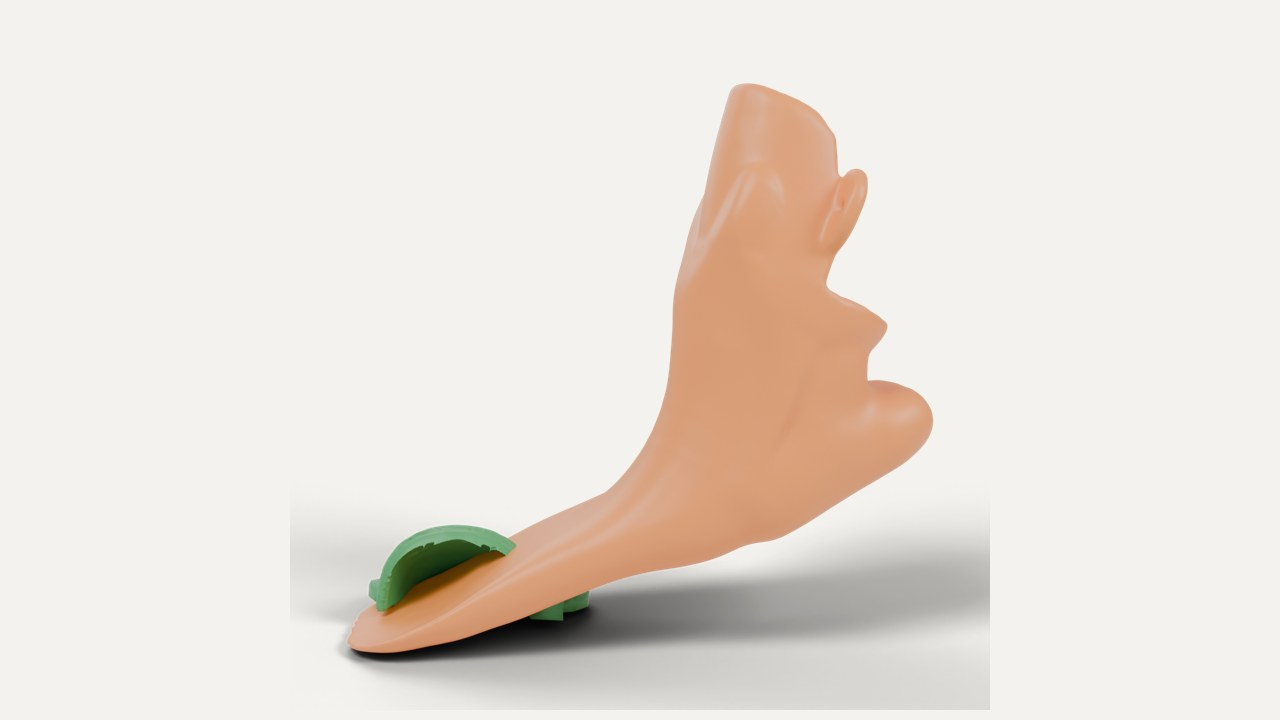
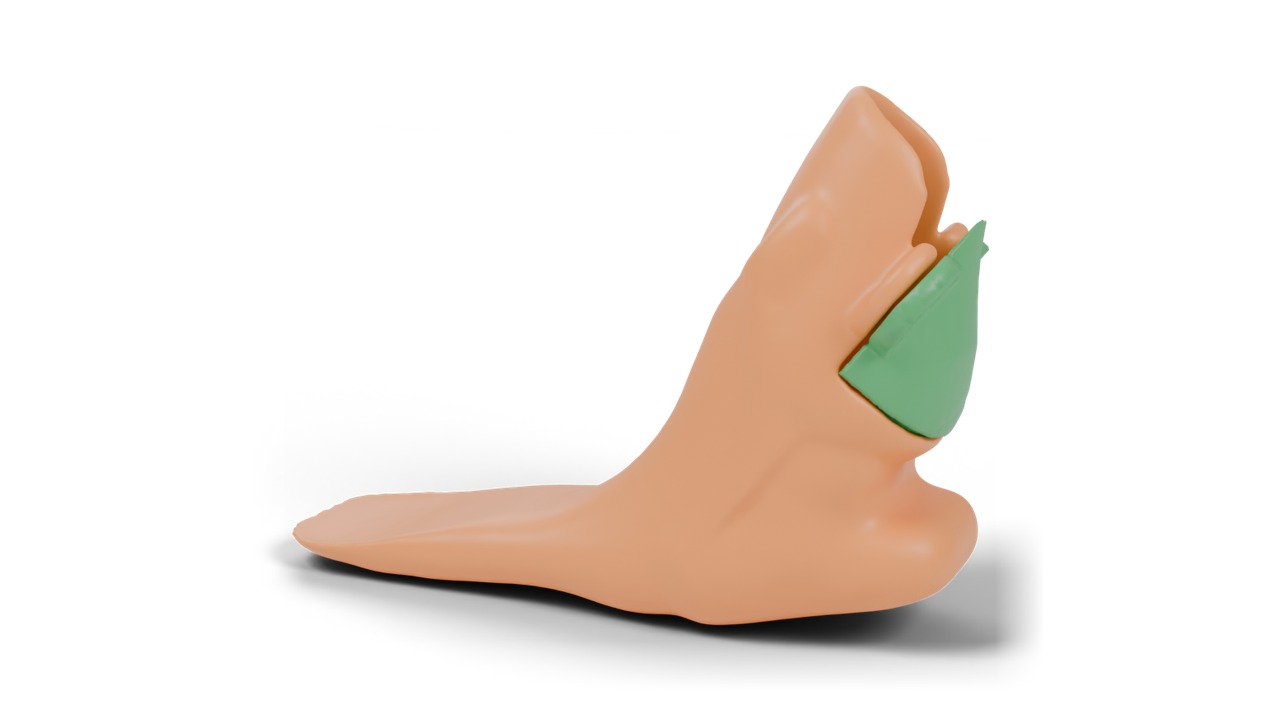
Real World: paper Blender renders for boot and scoop; minimal card text

Changed region(s): [[0.2188, 0.0917, 0.8125, 1.0]]

diff --git a/index.html b/index.html
@@ -167,7 +167,7 @@
         .rw-pipe .demo-card .pipe-prompt { aspect-ratio: 16 / 9; display: flex; align-items: center; justify-content: center; padding: 20px 28px;
             background: #141216; font-family: 'Noto Serif', Georgia, serif; font-style: italic; font-size: 1.15rem; line-height: 1.5; color: var(--heading); text-align: center; }
         .rw-pipe .demo-card .pipe-prompt .q { color: var(--design-2); font-size: 1.6em; line-height: 0; vertical-align: -0.3em; }
-        .rw-pipe .demo-card img { width: 100%; aspect-ratio: 16 / 9; object-fit: cover; display: block; }
+        .rw-pipe .demo-card img { width: 100%; aspect-ratio: 16 / 9; object-fit: cover; background: #fff; display: block; }
         .rw-pipe .demo-card .step { font-family: 'Inter', 'Noto Sans', sans-serif; font-size: 0.7rem; font-weight: 600; color: var(--design-2); letter-spacing: 0.08em; text-transform: uppercase; margin-bottom: 4px; }
         .rw-grid .trial { font-family: 'Inter', 'Noto Sans', sans-serif; font-size: 0.7rem; font-weight: 600; color: var(--secondary); letter-spacing: 0.08em; text-transform: uppercase; margin-left: 8px; vertical-align: 2px; }
         .tip {
@@ -377,33 +377,26 @@
 <section id="real-world">
     <div class="page-wide">
         <h2>Real World Results</h2>
-        <p class="method-text" style="max-width:900px">Two L2D designs printed and run on hardware. Prompt, DIAL-MPC controllers in simulation, printed part, then three hardware trials. <strong>Stock left, L2D design right.</strong></p>
+        <p class="method-text" style="max-width:900px"><strong>Stock left, L2D design right.</strong></p>
 
         <h3 class="sub">Soccer: Stock Go2 Vs. Printed Kicking Boot</h3>
-        <p class="sub-note">Standing kick. Real time, cut before the robot drops into damping mode.</p>
         <div class="demo-grid rw-grid rw-pipe">
             <div class="demo-card design">
                 <div class="pipe-prompt"><span><span class="q">&ldquo;</span>Kick the ball as far as possible from a standing kick.<span class="q">&rdquo;</span></span></div>
                 <div class="card-body">
                     <div class="step">1 &middot; Prompt</div>
-                    <div class="card-head"><h3>Prompt</h3><div class="robot">UNITREE GO2 &middot; LONG KICK</div></div>
-                    <p>Given to L2D with the stock robot.</p>
                 </div>
             </div>
             <div class="demo-card design">
                 <div class="vid-wrap"><video src="videos/real/go2_sim_vs.mp4?v=20261117s" autoplay loop muted playsinline preload="metadata"></video></div>
                 <div class="card-body">
-                    <div class="step">2 &middot; Simulation, deployed controllers</div>
-                    <div class="card-head"><h3>DIAL-MPC in simulation</h3><div class="robot">STOCK (LEFT) VS. L2D DESIGN (RIGHT)</div></div>
-                    <p>The deployed controllers replayed in sim. Carry 1.2&thinsp;m (stock) vs. 1.5&thinsp;m (boot).</p>
+                    <div class="step">2 &middot; DIAL-MPC in sim</div>
                 </div>
             </div>
             <div class="demo-card design">
-                <img src="figures/real/boot_print.jpg?v=3" alt="Blender render of the printed prosthetic blade boot (orange) and its green back piece" loading="lazy">
+                <img src="figures/real/boot_print.jpg?v=4" alt="Blender render of the printed prosthetic blade boot (orange) and its green back piece" loading="lazy">
                 <div class="card-body">
                     <div class="step">3 &middot; Printed part</div>
-                    <div class="card-head"><h3>Printed boot</h3><div class="robot">PLA, FDM PRINTED</div></div>
-                    <p>Blender render of the print files, side profile: prosthetic blade boot (orange), back piece (green).</p>
                 </div>
             </div>
         </div>
@@ -411,72 +404,60 @@
             <div class="demo-card">
                 <div class="vid-wrap"><video src="videos/real/go2_stock_1_raw.mp4?v=20261117u" autoplay loop muted playsinline preload="metadata"></video></div>
                 <div class="card-body">
-                    <div class="card-head"><h3>Soccer &middot; Stock <span class="trial">trial 1</span></h3><div class="robot">UNITREE GO2 &middot; STOCK</div></div>
-                    <p>Bare foot, stance balance controller on.</p>
+                    <div class="card-head"><h3>Soccer &middot; Stock <span class="trial">trial 1</span></h3></div>
                 </div>
             </div>
             <div class="demo-card design">
                 <div class="vid-wrap"><video src="videos/real/go2_boot_1_raw.mp4?v=20261117u" autoplay loop muted playsinline preload="metadata"></video></div>
                 <div class="card-body">
-                    <div class="card-head"><h3>Soccer &middot; L2D Design <span class="trial">trial 1</span></h3><div class="robot">UNITREE GO2 + PRINTED KICKING BOOT</div></div>
-                    <p>Printed boot on the kicking foot.</p>
+                    <div class="card-head"><h3>Soccer &middot; L2D Design <span class="trial">trial 1</span></h3></div>
                 </div>
             </div>
             <div class="demo-card">
                 <div class="vid-wrap"><video src="videos/real/go2_stock_2_raw.mp4?v=20261117u" autoplay loop muted playsinline preload="metadata"></video></div>
                 <div class="card-body">
-                    <div class="card-head"><h3>Soccer &middot; Stock <span class="trial">trial 2</span></h3><div class="robot">UNITREE GO2 &middot; STOCK</div></div>
-                    <p>Bare foot, stance balance controller on.</p>
+                    <div class="card-head"><h3>Soccer &middot; Stock <span class="trial">trial 2</span></h3></div>
                 </div>
             </div>
             <div class="demo-card design">
                 <div class="vid-wrap"><video src="videos/real/go2_boot_2_raw.mp4?v=20261117u" autoplay loop muted playsinline preload="metadata"></video></div>
                 <div class="card-body">
-                    <div class="card-head"><h3>Soccer &middot; L2D Design <span class="trial">trial 2</span></h3><div class="robot">UNITREE GO2 + PRINTED KICKING BOOT</div></div>
-                    <p>Printed boot on the kicking foot.</p>
+                    <div class="card-head"><h3>Soccer &middot; L2D Design <span class="trial">trial 2</span></h3></div>
                 </div>
             </div>
             <div class="demo-card">
                 <div class="vid-wrap"><video src="videos/real/go2_stock_3_raw.mp4?v=20261117u" autoplay loop muted playsinline preload="metadata"></video></div>
                 <div class="card-body">
-                    <div class="card-head"><h3>Soccer &middot; Stock <span class="trial">trial 3</span></h3><div class="robot">UNITREE GO2 &middot; STOCK</div></div>
-                    <p>Bare foot, open-loop baseline kick (no balance layer).</p>
+                    <div class="card-head"><h3>Soccer &middot; Stock <span class="trial">trial 3</span></h3></div>
+                    <p>Open loop, no balance layer.</p>
                 </div>
             </div>
             <div class="demo-card design">
                 <div class="vid-wrap"><video src="videos/real/go2_boot_3_raw.mp4?v=20261117u" autoplay loop muted playsinline preload="metadata"></video></div>
                 <div class="card-body">
-                    <div class="card-head"><h3>Soccer &middot; L2D Design <span class="trial">trial 3</span></h3><div class="robot">UNITREE GO2 + PRINTED KICKING BOOT</div></div>
-                    <p>Printed boot on the kicking foot.</p>
+                    <div class="card-head"><h3>Soccer &middot; L2D Design <span class="trial">trial 3</span></h3></div>
                 </div>
             </div>
         </div>
 
         <h3 class="sub">Scoop: Stock Yam Gripper Vs. Printed Scoop</h3>
-        <p class="sub-note">Bin to bin. Blind open-loop replay, 12x speed.</p>
         <div class="demo-grid rw-grid rw-pipe">
             <div class="demo-card design">
                 <div class="pipe-prompt"><span><span class="q">&ldquo;</span>Scoop the balls out of the blue bin and tip them into the green bin, as many as you can as fast as you can.<span class="q">&rdquo;</span></span></div>
                 <div class="card-body">
                     <div class="step">1 &middot; Prompt</div>
-                    <div class="card-head"><h3>Prompt</h3><div class="robot">YAM ARM &middot; SCOOP</div></div>
-                    <p>Given to L2D with the stock robot.</p>
                 </div>
             </div>
             <div class="demo-card design">
                 <div class="vid-wrap"><video src="videos/real/yam_sim_vs.mp4?v=20261118a" autoplay loop muted playsinline preload="metadata"></video></div>
                 <div class="card-body">
-                    <div class="step">2 &middot; Simulation, deployed controllers</div>
-                    <div class="card-head"><h3>DIAL-MPC in simulation</h3><div class="robot">STOCK (LEFT) VS. L2D DESIGN (RIGHT)</div></div>
-                    <p>The deployed controllers replayed in sim. The scoop is shown on its third pass.</p>
+                    <div class="step">2 &middot; DIAL-MPC in sim</div>
                 </div>
             </div>
             <div class="demo-card design">
-                <img src="figures/real/scoop_print.jpg?v=2" alt="Blender render of the printed scoop and jaw mount bolted to the stock YAM gripper, side view" loading="lazy">
+                <img src="figures/real/scoop_print.jpg?v=3" alt="Blender render of the printed scoop and jaw mount bolted to the stock YAM gripper, side view" loading="lazy">
                 <div class="card-body">
                     <div class="step">3 &middot; Printed part</div>
-                    <div class="card-head"><h3>Printed scoop</h3><div class="robot">PLA, FDM PRINTED</div></div>
-                    <p>Blender render: scoop (orange) and jaw mount (purple) bolted to the stock gripper.</p>
                 </div>
             </div>
         </div>
@@ -484,43 +465,37 @@
             <div class="demo-card">
                 <div class="vid-wrap"><video src="videos/real/yam_stock_1.mp4?v=20261117s" autoplay loop muted playsinline preload="metadata"></video></div>
                 <div class="card-body">
-                    <div class="card-head"><h3>Scoop &middot; Stock <span class="trial">trial 1</span></h3><div class="robot">YAM ARM &middot; STOCK GRIPPER</div></div>
-                    <p>Parallel gripper, one grasp at a time.</p>
+                    <div class="card-head"><h3>Scoop &middot; Stock <span class="trial">trial 1</span></h3></div>
                 </div>
             </div>
             <div class="demo-card design">
                 <div class="vid-wrap"><video src="videos/real/yam_scoop_1.mp4?v=20261117s" autoplay loop muted playsinline preload="metadata"></video></div>
                 <div class="card-body">
-                    <div class="card-head"><h3>Scoop &middot; L2D Design <span class="trial">trial 1</span></h3><div class="robot">YAM ARM + L2D PRINTED SCOOP</div></div>
-                    <p>Printed scoop, by the scoopful.</p>
+                    <div class="card-head"><h3>Scoop &middot; L2D Design <span class="trial">trial 1</span></h3></div>
                 </div>
             </div>
             <div class="demo-card">
                 <div class="vid-wrap"><video src="videos/real/yam_stock_2.mp4?v=20261117s" autoplay loop muted playsinline preload="metadata"></video></div>
                 <div class="card-body">
-                    <div class="card-head"><h3>Scoop &middot; Stock <span class="trial">trial 2</span></h3><div class="robot">YAM ARM &middot; STOCK GRIPPER</div></div>
-                    <p>Parallel gripper, one grasp at a time.</p>
+                    <div class="card-head"><h3>Scoop &middot; Stock <span class="trial">trial 2</span></h3></div>
                 </div>
             </div>
             <div class="demo-card design">
                 <div class="vid-wrap"><video src="videos/real/yam_scoop_2.mp4?v=20261117s" autoplay loop muted playsinline preload="metadata"></video></div>
                 <div class="card-body">
-                    <div class="card-head"><h3>Scoop &middot; L2D Design <span class="trial">trial 2</span></h3><div class="robot">YAM ARM + L2D PRINTED SCOOP</div></div>
-                    <p>Printed scoop, by the scoopful.</p>
+                    <div class="card-head"><h3>Scoop &middot; L2D Design <span class="trial">trial 2</span></h3></div>
                 </div>
             </div>
             <div class="demo-card">
                 <div class="vid-wrap"><video src="videos/real/yam_stock_3.mp4?v=20261117s" autoplay loop muted playsinline preload="metadata"></video></div>
                 <div class="card-body">
-                    <div class="card-head"><h3>Scoop &middot; Stock <span class="trial">trial 3</span></h3><div class="robot">YAM ARM &middot; STOCK GRIPPER</div></div>
-                    <p>Parallel gripper, one grasp at a time.</p>
+                    <div class="card-head"><h3>Scoop &middot; Stock <span class="trial">trial 3</span></h3></div>
                 </div>
             </div>
             <div class="demo-card design">
                 <div class="vid-wrap"><video src="videos/real/yam_scoop_3.mp4?v=20261117s" autoplay loop muted playsinline preload="metadata"></video></div>
                 <div class="card-body">
-                    <div class="card-head"><h3>Scoop &middot; L2D Design <span class="trial">trial 3</span></h3><div class="robot">YAM ARM + L2D PRINTED SCOOP</div></div>
-                    <p>Printed scoop, by the scoopful.</p>
+                    <div class="card-head"><h3>Scoop &middot; L2D Design <span class="trial">trial 3</span></h3></div>
                 </div>
             </div>
         </div>
